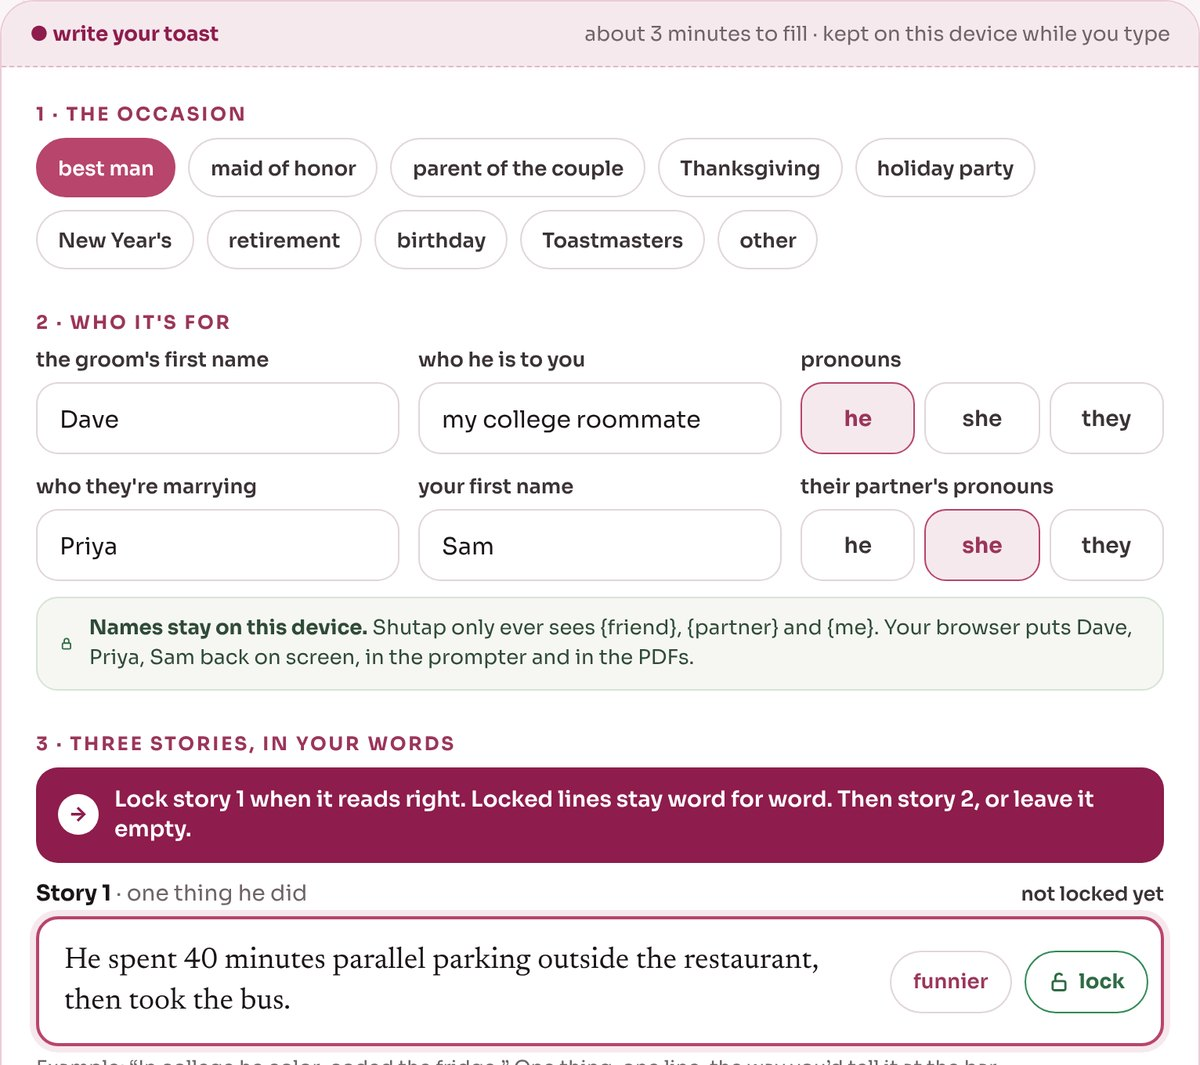
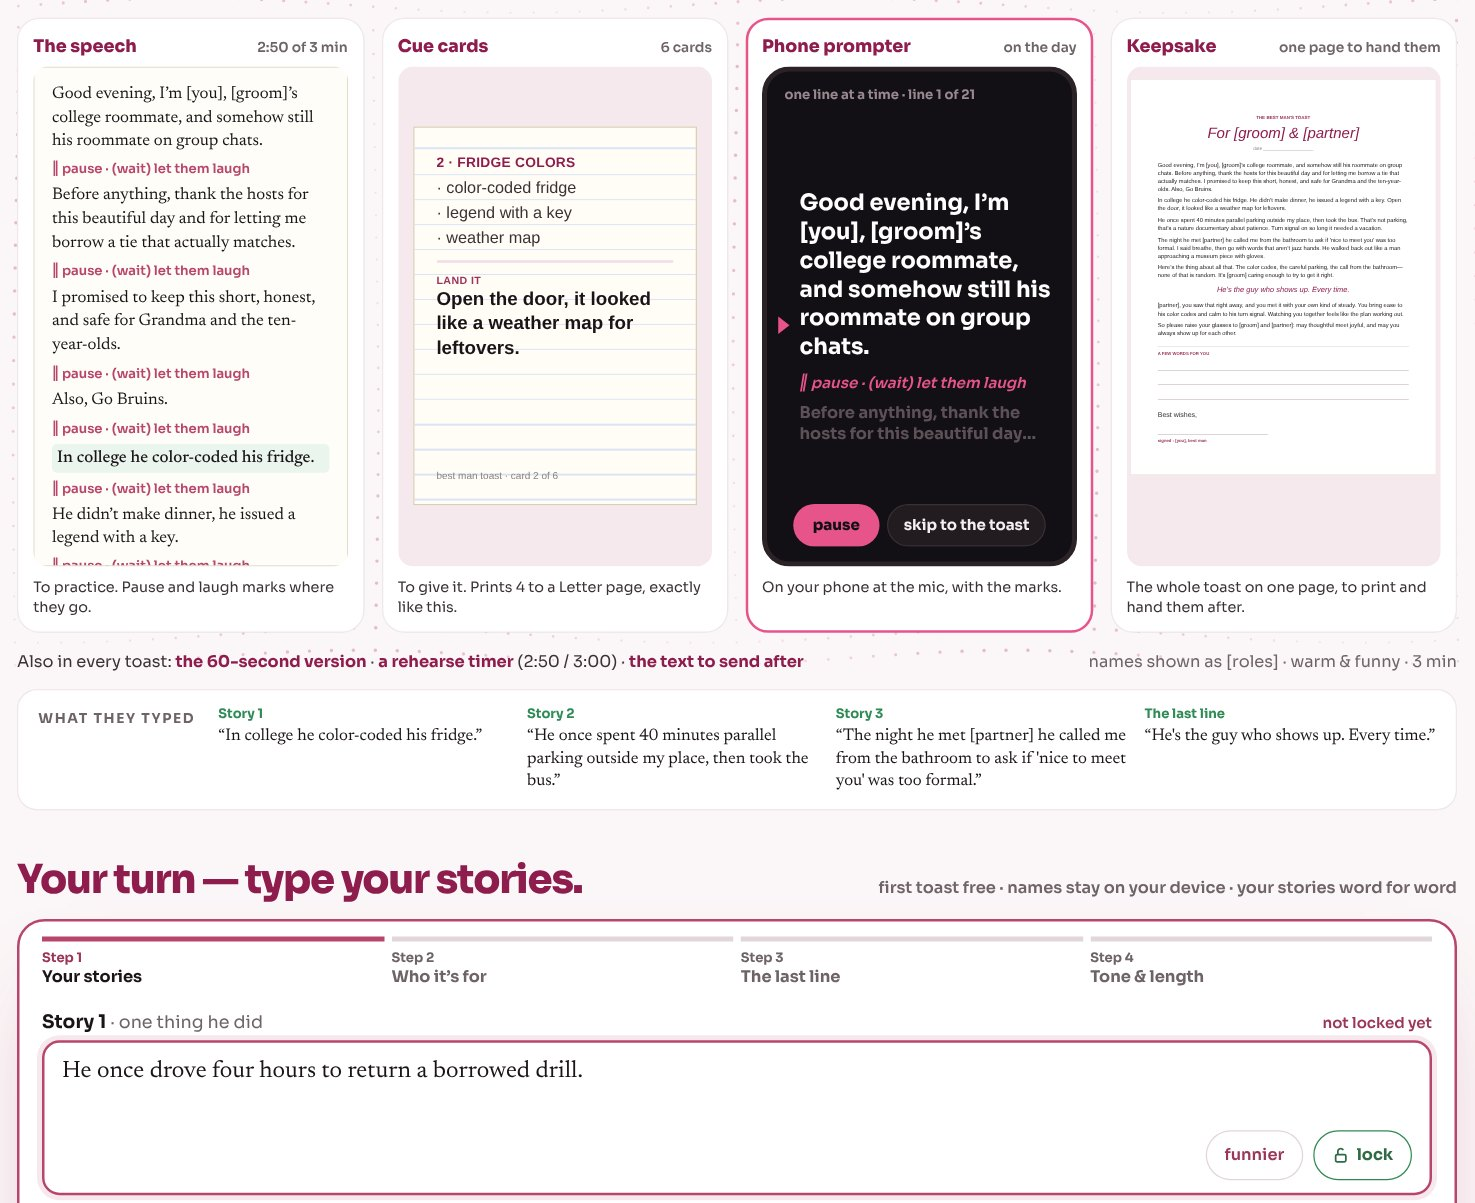
Homepage: Realtors and Toasts screenshots of the new show-it-first pages
Realtors: the sample kit's four outputs above the paste box; the listing
link still types itself. Toasts: the best man demo's four outputs above
story 1; story 1 still types itself. Boxes re-measured, alt text updated.

Claude-Session: https://claude.ai/code/session_01VFctWuFxVfHjbi4UBffGEi

diff --git a/src/pages/home/ProductHome.tsx b/src/pages/home/ProductHome.tsx
@@ -105,7 +105,7 @@ const PRODUCTS: ProductLine[] = [
     gets: [['camera', 'Walkthrough'], ['wave', 'Voiceover'], ['bolt', 'Hooks'], ['sign', 'Open house'], ['post', 'Posts'], ['doc', 'MLS copy']],
     price: 'First kit free, marked · one kit $12.99 · Basic: 20 a month · Pro: unlimited',
     cta: 'Get my free kit', href: '/realtors',
-    shot: { src: '/home/realtors.jpg', url: 'shutap.com/realtors', w: 1600, h: 952, alt: 'Shutap for Realtors: the paste box beside a real kit, six outputs and shoot mode' },
+    shot: { src: '/home/realtors.jpg', url: 'shutap.com/realtors', w: 1475, h: 1359, alt: 'Shutap for Realtors: a sample kit from a real Menlo Park listing, the walkthrough, shoot mode with cues, the social posts on a 9:16 phone and the open-house kit, above the paste box' },
   },
   {
     key: 'toasts', icon: 'toasts', name: 'Toasts', full: 'Shutap Toasts', aud: 'for weddings and holidays', tab: 'weddings & holidays',
@@ -116,7 +116,7 @@ const PRODUCTS: ProductLine[] = [
     gets: [['doc', 'Speech'], ['cards', 'Cue cards'], ['phone', 'Prompter'], ['clock', '60-sec cut'], ['timer', 'Rehearse'], ['gift', 'Keepsake']],
     price: 'First toast free, marked · one toast $12.99 · Basic: 1 a month · Pro: unlimited',
     cta: 'Write a toast', href: '/toasts',
-    shot: { src: '/home/toasts.jpg', url: 'shutap.com/toasts', w: 1200, h: 1065, alt: 'The Shutap Toasts form: the occasion, who it is for, and the first story' },
+    shot: { src: '/home/toasts.jpg', url: 'shutap.com/toasts', w: 1475, h: 1203, alt: 'Shutap Toasts: a demo best man toast as the speech, cue cards, the phone prompter and the keepsake, above the box for your first story' },
     occasions: [
       { label: 'best man', href: '/toasts/best-man' },
       { label: 'maid of honor', href: '/toasts/maid-of-honor' },

diff --git a/src/pages/home/ShotMotion.tsx b/src/pages/home/ShotMotion.tsx
@@ -20,21 +20,21 @@ type ShotMotionSpec = { seconds: number; effects: ShotEffect[] }
  *  demo bit are the picture; nothing is typed over them, so no motion. */
 const BITS: ShotMotionSpec = { seconds: 10, effects: [] }
 
-/** Toasts: story 1 is typed, two lines. */
+/** Toasts (Nov 12 2026, the new /toasts/best-man first screen): the demo
+ *  toast's four outputs on top; story 1 types itself in the box below. */
 const TOASTS: ShotMotionSpec = {
   seconds: 9,
   effects: [
-    { kind: 'type', box: { left: 5.35, top: 88.15, width: 67.8, height: 3.8 }, chars: 60, from: 6, to: 40, then: true },
-    { kind: 'type', box: { left: 5.35, top: 91.95, width: 21, height: 3.8 }, chars: 18, from: 41, to: 52 },
+    { kind: 'type', box: { left: 4.15, top: 87.52, width: 35.69, height: 3.12 }, chars: 52, from: 6, to: 45 },
   ],
 }
 
-/** Realtors (Nov 8 2026, the new /realtors first screen): the listing link
- *  is typed into the paste box beside the real sample kit. */
+/** Realtors (Nov 12 2026, the new /realtors first screen): the sample kit's
+ *  four outputs on top; the listing link types itself into the paste box. */
 const REALTORS: ShotMotionSpec = {
   seconds: 7,
   effects: [
-    { kind: 'type', box: { left: 7.83, top: 66.82, width: 20.8, height: 5.04 }, chars: 25, from: 8, to: 45 },
+    { kind: 'type', box: { left: 7.37, top: 86.32, width: 19.25, height: 2.35 }, chars: 25, from: 8, to: 45 },
   ],
 }
 
